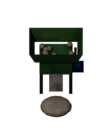
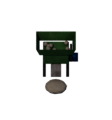
Crusher sprite: squat and within its own tile
Its tall hopper covered most of the tile north of it and its gravel heap
spilled onto the tile south, so players put an inserter a tile too far away,
where it reached nothing. The crusher is now lower and its heap stays on its
tile; re-rendered with tools/render_plot_art.py crusher.

Claude-Session: https://claude.ai/code/session_01BCKUQYuttujsThsfaLedju

Changed region(s): [[0.2411, 0.2, 0.75, 0.875]]

diff --git a/tools/render_plot_art.py b/tools/render_plot_art.py
@@ -1695,26 +1695,27 @@ def build_quarry():
 
 
 def build_crusher():
-    """A jaw crusher: a green steel hopper on four legs over a heavy body, a flywheel and belt to its
-    motor, and a heap of gravel under the chute."""
+    """A jaw crusher: a green steel hopper on four short legs over a heavy body, a flywheel and belt to
+    its motor, and a heap of gravel under the chute. Squat and kept within its tile, heap and all, so
+    it is plain which tile it stands on and an inserter next to it reaches it."""
     green = ra.rusty_metal("crush_green", (0.07, 0.2, 0.08), rust=0.3)
     dark = ra.rusty_metal("crush_dark", (0.06, 0.06, 0.07), rust=0.3)
     gravel = rock("crush_gravel", (0.22, 0.21, 0.2))
-    for x in (-0.38, 0.38):
-        for y in (-0.15, 0.4):
-            ra.box("crush_leg", (0.08, 0.08, 0.9), (x, y, 0.45), dark)
-    ra.box("crush_body", (0.85, 0.65, 0.5), (0, 0.12, 0.95), green, bevel=0.03)
-    v = [(-0.55, -0.25, 1.2), (0.55, -0.25, 1.2), (0.55, 0.5, 1.2), (-0.55, 0.5, 1.2),
-         (-0.35, -0.1, 1.2), (0.35, -0.1, 1.2), (0.35, 0.35, 1.2), (-0.35, 0.35, 1.2)]
-    top = [(x * 1.25, (y - 0.12) * 1.3 + 0.12, 1.6) for x, y, _ in v[:4]]
+    for x in (-0.34, 0.34):
+        for y in (-0.1, 0.3):
+            ra.box("crush_leg", (0.08, 0.08, 0.6), (x, y, 0.3), dark)
+    ra.box("crush_body", (0.75, 0.55, 0.4), (0, 0.1, 0.75), green, bevel=0.03)
+    v = [(-0.48, -0.2, 0.95), (0.48, -0.2, 0.95), (0.48, 0.4, 0.95), (-0.48, 0.4, 0.95),
+         (-0.3, -0.07, 0.95), (0.3, -0.07, 0.95), (0.3, 0.27, 0.95), (-0.3, 0.27, 0.95)]
+    top = [(x * 1.2, (y - 0.1) * 1.25 + 0.1, 1.25) for x, y, _ in v[:4]]
     ra.mesh_from("crush_hopper", top + v[:4], [(0, 1, 5, 4), (1, 2, 6, 5), (2, 3, 7, 6), (3, 0, 4, 7)], green)
     for k in range(9):
-        ra.sphere("crush_stone", 0.08, (random.uniform(-0.4, 0.4), random.uniform(-0.1, 0.4), 1.25), gravel, segments=8)
-    ra.box("crush_chute", (0.35, 0.5, 0.05), (0, -0.35, 0.6), dark, rotation=(math.radians(35), 0, 0))
-    heap = ra.sphere("crush_heap", 0.38, (0, -0.65, 0.0), gravel, scale=(1.1, 0.9, 0.55), segments=16)
+        ra.sphere("crush_stone", 0.07, (random.uniform(-0.34, 0.34), random.uniform(-0.08, 0.3), 0.99), gravel, segments=8)
+    ra.box("crush_chute", (0.3, 0.4, 0.05), (0, -0.28, 0.42), dark, rotation=(math.radians(35), 0, 0))
+    heap = ra.sphere("crush_heap", 0.3, (0, -0.55, 0.0), gravel, scale=(1.1, 0.9, 0.55), segments=16)
     ra.displace(heap, 0.04, 0.12, 2)
-    ra.cylinder("crush_flywheel", 0.32, 0.06, (0.5, 0.1, 0.95), dark, rotation=(0, math.radians(90), 0), verts=28)
-    ra.cylinder("crush_motor", 0.15, 0.32, (0.55, 0.5, 0.3), ra.rusty_metal("crush_motor", (0.05, 0.12, 0.35), rust=0.15),
+    ra.cylinder("crush_flywheel", 0.26, 0.06, (0.44, 0.1, 0.75), dark, rotation=(0, math.radians(90), 0), verts=28)
+    ra.cylinder("crush_motor", 0.13, 0.28, (0.5, 0.42, 0.25), ra.rusty_metal("crush_motor", (0.05, 0.12, 0.35), rust=0.15),
                 rotation=(0, math.radians(90), 0), verts=18)
 
 
@@ -1851,7 +1852,7 @@ MOUNTAIN = {
     "drill": (112, 152, 0.9, build_drill),
     "heavy_drill": (112, 176, 1.15, build_heavy_drill),
     "quarry": (112, 120, 0.6, build_quarry),
-    "crusher": (112, 136, 0.75, build_crusher),
+    "crusher": (112, 120, 0.55, build_crusher),
     "stonemason": (112, 112, 0.5, build_stonemason),
     "foundry": (112, 168, 1.1, build_foundry),
 }
